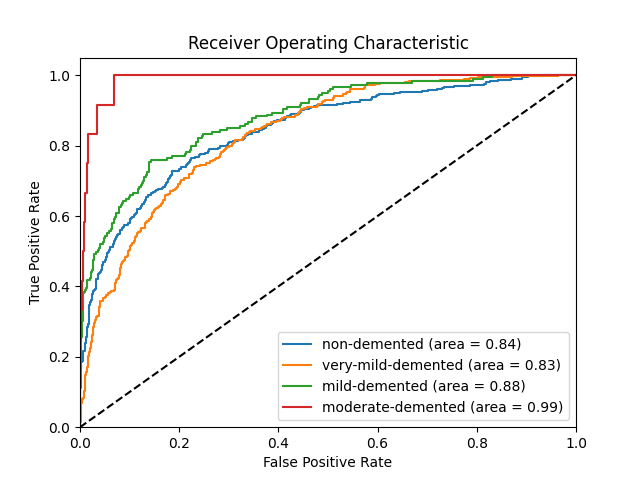
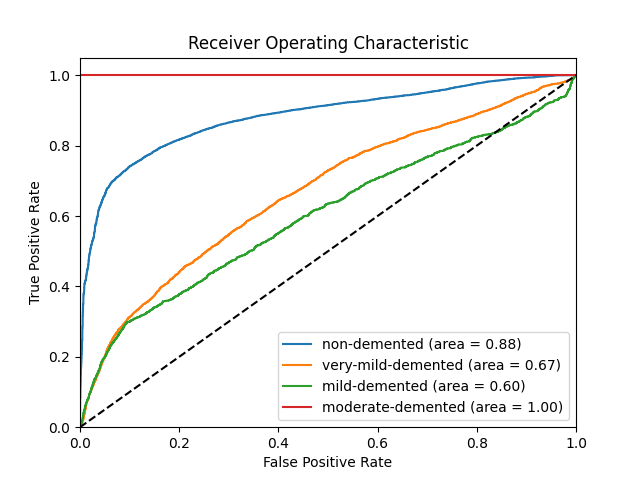
:hammer:Adjusting some functions

diff --git a/train.py b/train.py
@@ -7,66 +7,61 @@ from test import test_model
 # from torch.utils.tensorboard import SummaryWriter
 
 def train_model(device, model, train_loader, val_loader, criterion, optimizer, num_epochs=25, early_stopping=False, n_iter_no_change=3, tol=0.1, validate=False, plot_loss_curve=False):
-    epochs_losses = []
+    epochs_losses_train     = []
+    epochs_losses_val       = []
+    epochs_accuracies_train = []
+    epochs_accuracies_val   = []
+
     n_iter_no_change_actual = 0
     best_loss = np.inf
 
-    # writer = SummaryWriter("runs/alz")
-
     # Iterate over the specified number of epochs
     for epoch in range(num_epochs):
+
         # Set the model to training mode
         model.train()
 
-        # Initialize epoch training loss
-        running_loss = 0.0
+        # Initialize epoch training loss and correct predictions
+        running_loss    = 0.0
+        correct_train   = 0
+        total_train     = 0
 
         # Iterate over the training data set
         for images, labels in train_loader:
             images, labels = images.to(device), labels.to(device)
 
+            # zero the parameter gradients
+            optimizer.zero_grad()
+
             # Forward pass
-            outputs = model(images) # Make prediction using the model
-            loss = criterion(outputs, labels) # Calculate batch loss
-            
-            # Backward and optimize
-            optimizer.zero_grad() # Reset optimizer gradients
-            loss.backward() # Backpropagation (compute gradients)
-            optimizer.step() # Update model parameters
+            outputs = model(images)             # Make prediction using the model
+            loss = criterion(outputs, labels)   # Calculate batch loss
+            loss.backward()                     # Backpropagation (compute gradients)
+            optimizer.step()                    # Update model parameters
 
-            running_loss += loss.item() * images.size(0) # Accumulate loss
-        
-        # Calculate epoch loss
-        epoch_loss = running_loss / len(train_loader.dataset)
-        epochs_losses.append(epoch_loss)
-        print(f'Epoch {epoch+1}/{num_epochs}, Loss: {epoch_loss:.4f}')
+            running_loss += loss.item()         # Accumulate loss
 
-        # Check if early stopping should be activated
-        if early_stopping and epoch >= 1:
-            if ( (epochs_losses[epoch-1] - epochs_losses[epoch]) < tol ):
-                n_iter_no_change_actual += 1
-            else:
-                n_iter_no_change_actual = 0
+            # Calculate accuracy
+            _, predicted = torch.max(outputs.data, 1)
+            total_train += labels.size(0)
+            correct_train += (predicted == labels).sum().item()
 
-            if n_iter_no_change_actual == n_iter_no_change:
-                print(f'Early stopping activated at epoch {epoch+1}!')
-                break
-        
+        # Calculate epoch loss and accuracy
+        epoch_loss_train = running_loss / len(train_loader)
+        epochs_losses_train.append(epoch_loss_train)
+
+        epoch_accuracy_train = 100 * correct_train / total_train
+        epochs_accuracies_train.append(epoch_accuracy_train)
+
+        print(f'Epoch {epoch+1}/{num_epochs}, Loss: {epoch_loss_train:.4f}, Accuracy: {epoch_accuracy_train:.2f}%')
+
         # Validation
         if validate:
             model.eval()
             val_accuracy, val_loss, _, _, _ = test_model(device, model, val_loader, criterion)
-            print(f'Validation Loss: {val_loss:.4f}, Accuracy: {val_accuracy:.4f}')
-            
-        #     temp = {
-        #         "Training loss": epoch_loss,
-        #         "Validation loss": val_loss
-        #     }
-        #     writer.add_scalars("Loss", temp, epoch)
-
-        # else:
-        #     writer.add_scalar("Training loss", epoch_loss, epoch)
-            
+            epochs_losses_val.append(val_loss)
+            epochs_accuracies_val.append(val_accuracy * 100)
+            print(f'Validation Loss: {val_loss:.4f}, Accuracy: {val_accuracy*100:.2f}%')
 
         # Saving the checkpoint of the last epoch
         checkpoint = {
@@ -74,22 +69,47 @@ def train_model(device, model, train_loader, val_loader, criterion, optimizer, n
             'model_state_dict':     model.state_dict(),
             'optimizer_state_dict': optimizer.state_dict(),
             'loss':                 criterion,
-            'loss_val':             epoch_loss
+            'loss_val':             epoch_loss_train
         }        
         torch.save(checkpoint, "last_checkpoint.pth")
 
         # Saving the best result (lowest loss)
-        if epoch_loss < best_loss:
+        if epoch_loss_train < best_loss:
             best_loss = loss
             torch.save(checkpoint, "best_checkpoint.pth")
 
-    # Ploting the loss curve at the finish of the train
-    if plot_loss_curve:
-        plt.plot(epochs_losses, label="CrossEntropyLoss")
-        plt.xlabel("Epochs")
-        plt.ylabel("Cross Entropy Loss")
-        plt.legend()
-        plt.savefig("cross_entropy_loss.png")
+        # Check if early stopping should be activated
+        if early_stopping and epoch >= 1:
+            if ( (epochs_losses_train[epoch-1] - epochs_losses_train[epoch]) < tol ):
+                n_iter_no_change_actual += 1
+            else:
+                n_iter_no_change_actual = 0
 
-    # Flush all info to the TensorBoard
-    # writer.close()
+            if n_iter_no_change_actual == n_iter_no_change:
+                print(f'Early stopping activated at epoch {epoch+1}!')
+                break
+
+    # Plotting the accuracy and loss curves at the finish of the training
+    if plot_loss_curve:
+        plt.figure(figsize=(14, 5))
+
+        # Accuracy plot
+        plt.subplot(1, 2, 1)
+        plt.plot(epochs_accuracies_train, label="train")
+        plt.plot(epochs_accuracies_val, label="test")
+        plt.xlabel("epoch")
+        plt.ylabel("accuracy")
+        plt.legend()
+        plt.title("Model Accuracy")
+
+        # Loss plot
+        plt.subplot(1, 2, 2)
+        plt.plot(epochs_losses_train, label="train")
+        plt.plot(epochs_losses_val, label="test")
+        plt.xlabel("epoch")
+        plt.ylabel("loss")
+        plt.legend()
+        plt.title("Model Loss")
+
+        plt.tight_layout()
+        plt.savefig("accuracy_loss_curves.png")

diff --git a/main.py b/main.py
@@ -1,10 +1,11 @@
 import torch
-from torchvision import transforms
+from torchvision import transforms, models
 from torch.utils.data import DataLoader
 import torch.nn as nn
 import matplotlib.pyplot as plt
 from glob import glob
 import numpy as np
+import sklearn.metrics as metrics
 
 from alzheimer_dataset import AlzheimerDataset
 from simple_cnn import SimpleCNN
@@ -29,56 +30,62 @@ if __name__ == '__main__':
     batch_size          = 32
     num_epochs          = 20
     n_iter_no_change    = 3
-    tol                 = 0.01
+    tol                 = 0.05
 
     # Defining the data path
     # train_data_path = "./data/train"
-    train_data_path = "./data_augmented"
-    test_data_path = "./data/test"
+    train_data_path = "./data-OAS/train"
+    test_data_path = "./data-OAS/test"
 
-    # Defining train transformations (USING AUGMENTATION)
+    # Defining train transformations
     train_transform = transforms.Compose([
+        # transforms.Grayscale(num_output_channels=3),
         transforms.Resize((224, 224)),
-        np.array,
-        get_mri_augmentation_sequence().augment_image,
-        np.copy,
+        # np.array,
+        # get_mri_augmentation_sequence().augment_image,        # AUGMENTATION
+        # np.copy,
         transforms.ToTensor(),
-        transforms.Normalize(mean=[0.5], std=[0.5])
+        # transforms.Normalize([0.485, 0.456, 0.406], [0.229, 0.224, 0.225]) # when using 3 channels
+        transforms.Normalize(mean=[0.485], std=[0.229])
+    ])
+
+    # Defining transformations
+    test_transform = transforms.Compose([
+        # transforms.Grayscale(num_output_channels=3),
+        transforms.Resize((224, 224)),
+        transforms.ToTensor(),
+        # transforms.Normalize([0.485, 0.456, 0.406], [0.229, 0.224, 0.225])
+        transforms.Normalize(mean=[0.485], std=[0.229])
     ])
 
     # Loading training data
     train_dataset = AlzheimerDataset(train_data_path, transform=train_transform)
     train_loader = DataLoader(train_dataset, batch_size=batch_size, shuffle=True)
 
+    # Loading training data
+    test_dataset = AlzheimerDataset(test_data_path, transform=test_transform)
+    test_loader = DataLoader(test_dataset, batch_size=batch_size, shuffle=False)
+
     # Defining the loss function and optimizer
     criterion = nn.CrossEntropyLoss()
     
     # Chossing the model
     # model = SimpleCNN().to(device)
-    # model = AdvancedCNN().to(device)
-    model = ResNet(ResidualBlock, [2, 2, 2], num_classes=4).to(device)
+    model = AdvancedCNN().to(device)
+    # model = ResNet(ResidualBlock, [2, 2, 2], num_classes=4).to(device)
+    # model = models.resnet18().to(device)                                            # sem pesos pre treinados
+    # model = models.resnet18(weights=models.ResNet18_Weights.DEFAULT).to(device)     # com pesos pre treinados
 
     # Optimizer
     optimizer = torch.optim.Adam(model.parameters(), lr=learning_rate)
     
     #Training the model
-    train_model(device, model, train_loader, None, criterion, optimizer, num_epochs, early_stopping=True, n_iter_no_change=n_iter_no_change, tol=tol, validate=False, plot_loss_curve=True)
+    train_model(device, model, train_loader, test_loader, criterion, optimizer, num_epochs, early_stopping=True, n_iter_no_change=n_iter_no_change, tol=tol, validate=True, plot_loss_curve=True)
     
     # Saving the trained model
     torch.save(model.state_dict(), 'model.pth')
 
     print("\nTesting...")
-
-    # Defining transformations
-    test_transform = transforms.Compose([
-        transforms.Resize((224, 224)),
-        transforms.ToTensor(),
-        transforms.Normalize(mean=[0.5], std=[0.5])
-    ])
-
-    # Loading training data
-    test_dataset = AlzheimerDataset(test_data_path, transform=test_transform)
-    test_loader = DataLoader(test_dataset, batch_size=batch_size, shuffle=True)
     
     # Test the model
     test_accuracy, test_loss, all_labels, all_preds, all_probs = test_model(device, model, test_loader, criterion)
@@ -89,3 +96,7 @@ if __name__ == '__main__':
     class_names = ['non-demented', 'very-mild-demented', 'mild-demented', 'moderate-demented']
     plot_confusion_matrix(all_labels, all_preds, class_names, save_plot=True)
     plot_roc_curve(all_labels, all_probs, class_names, save_plot=True)
+
+    # Calculate all metrics (Acuracy, Recall, Precision and F1-score)
+    results = metrics.classification_report(all_labels, all_preds, target_names=class_names)
+    print(results)

diff --git a/test.py b/test.py
@@ -12,14 +12,14 @@ def test_model(device, model, test_loader, criterion):
     model.eval()
 
     # Initializes variables to calculate test loss and accuracy
-    test_running_loss = 0.0
-    correct = 0
-    total = 0
+    test_running_loss   = 0.0
+    correct             = 0
+    total               = 0
 
     # Lists to store all true labels and predicted probabilities
-    all_labels = []
-    all_preds = []
-    all_probs = []
+    all_labels  = []
+    all_preds   = []
+    all_probs   = []
     
     # Disable gradient computation (saves memory and speeds up the process)
     with torch.no_grad():
@@ -32,10 +32,11 @@ def test_model(device, model, test_loader, criterion):
 
             # Calculate batch loss
             loss = criterion(outputs, labels)
-            test_running_loss += loss.item() * images.size(0)
+            test_running_loss += loss.item()
 
             # Get the class predictions (the class with the highest score)
             _, predicted = torch.max(outputs, 1)
+            
             total += labels.size(0)
             correct += (predicted == labels).sum().item()
 
@@ -45,7 +46,7 @@ def test_model(device, model, test_loader, criterion):
             all_probs.extend(outputs.cpu().numpy())
     
     # Calculates and prints test accuracy
-    test_loss = test_running_loss / len(test_loader.dataset)
+    test_loss = test_running_loss / len(test_loader)
     test_accuracy = correct / total
 
     return test_accuracy, test_loss, all_labels, all_preds, all_probs

diff --git a/aug.py b/aug.py
@@ -2,7 +2,6 @@ import os
 from PIL import Image
 import numpy as np
 import imgaug.augmenters as iaa
-import shutil
 
 def get_mri_augmentation_sequence():
     """
@@ -86,7 +85,7 @@ def augment_and_save_images(input_dir, output_dir, num_augmented_images=10):
 
 def balance_classes_with_augmentation(input_dir, output_dir):
     """
-    Gera augmentações para equilibrar o número de imagens em cada classe.
+    Gera augmentações para equilibrar o número de imagens em cada classe (aumento de 20% na classe com mais imagens)
 
     Args:
         input_dir (str): Diretório contendo as imagens originais.
@@ -100,7 +99,7 @@ def balance_classes_with_augmentation(input_dir, output_dir):
             class_counts[category] = len(os.listdir(category_path))
 
     # Determinar o número máximo de imagens em qualquer classe
-    max_count = max(class_counts.values())
+    max_count = int( max(class_counts.values()) * 5 )
 
     # Aplicar augmentação para balancear as classes
     for category in class_counts:
@@ -147,7 +146,7 @@ def balance_classes_with_augmentation(input_dir, output_dir):
 if __name__ == '__main__':
     # Caminhos de entrada e saída
     input_directory = "data/train"
-    output_directory = "data_augmented"
+    output_directory = "data_augmented_balanced"
 
     # Aplicar augmentação e salvar as imagens
-    augment_and_save_images(input_directory, output_directory, 10)
+    balance_classes_with_augmentation(input_directory, output_directory)

diff --git a/cross_validation.py b/cross_validation.py
@@ -38,7 +38,7 @@ def cross_validate_model(device, dataset, model_class, criterion, optimizer_clas
         optimizer = optimizer_class(model.parameters(), lr=0.001)
         
         # Train the model
-        train_model(device, model, train_loader, val_loader, criterion, optimizer, num_epochs, early_stopping=True, n_iter_no_change=5, tol=0.01, validate=True, plot_loss_curve=False)
+        train_model(device, model, train_loader, val_loader, criterion, optimizer, num_epochs, early_stopping=True, n_iter_no_change=3, tol=0.01, validate=True, plot_loss_curve=True)
         
         # Evaluate the model on the validation set again to get the confusion matrix and ROC curve
         accuracy, loss, labels, preds, probs = test_model(device, model, val_loader, criterion)
